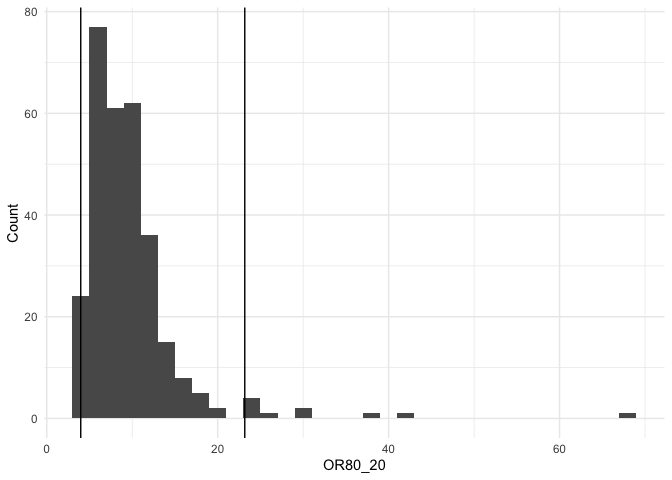
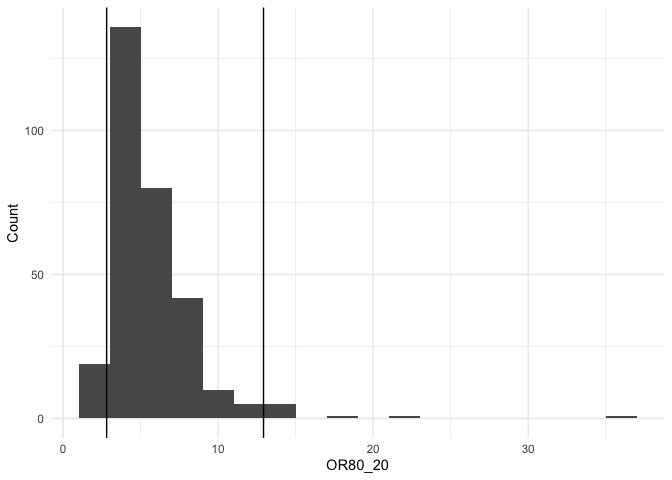
update sample data

diff --git a/README.md b/README.md
@@ -37,35 +37,24 @@ computer.
 
 ## Getting Started
 
-First, generate some test data.
+First, generate some test data. Here, we are using a simulated dataset
+that is included with the `hazrd` package.
 
 ``` r
 library(ggplot2)
 library(hazrd)
 set.seed(4649580)
 
-# n = 1000
-# status = rbinom(n, 1, 0.2)
-# 
-# test_data = data.frame(phs  = rnorm(n) + (1 * status),
-#                        status = status,
-#                        age = sample(40:100, n, replace = TRUE))
-
-n <- 1000
-age = runif(n, 40, 80) # generate random age at recruitment
-cens <- 15*runif(n)    # randomize years until censoring
-phs = rnorm(n)         # generate random PHS score
-h <- .02*exp(.04*(age-50)+0.8*(phs)) 
-                       # calculate risk with age and PHS score
-t <- -log(runif(n))/h  # calculate time of diagnosis
-status <- ifelse(t<=cens,1,0) 
-                       # if time of diagnosis is less than time of censoring
-                       # then "case", otherwise "control"
-t <- pmin(t, cens)     # choose the lesser of diagnosis time or censoring time
-age = age + t          # Add age of recruitment to age of diagnosis/censoring
-
-test_data = data.frame(phs, age, status)
+head(test_data)
 ```
+
+    ##          phs      age status
+    ## 1  1.2959195 61.20479      0
+    ## 2  0.7677172 52.15337      0
+    ## 3  1.8747000 56.05307      0
+    ## 4 -1.0106221 81.71140      0
+    ## 5 -0.7239738 61.37459      0
+    ## 6 -1.2076723 54.56741      0
 
 Next, plot the histogram of PHSes by case/control status.
 
@@ -85,13 +74,13 @@ print(HR80_20[1:3])
 ```
 
     ## $HR
-    ## [1] 7.313878
+    ## [1] 7.33684
     ## 
     ## $conf.low
-    ## [1] 5.21903
+    ## [1] 5.095274
     ## 
     ## $conf.high
-    ## [1] 10.48366
+    ## [1] 10.95351
 
 Each `get_` function also returns the output from each bootstrap
 iteration in `$iters` so that the user can plot these or calculate their
@@ -117,13 +106,13 @@ print(OR80_20[1:3])
 ```
 
     ## $OR
-    ## [1] 8.181727
+    ## [1] 4.864637
     ## 
     ## $conf.low
-    ## [1] 3.979154
+    ## [1] 2.809005
     ## 
     ## $conf.high
-    ## [1] 23.16976
+    ## [1] 12.92629
 
 ``` r
 ggplot(mapping = aes(x = OR80_20$iters)) +
@@ -145,13 +134,13 @@ print(c_index[1:3])
 ```
 
     ## $c_index
-    ## [1] 0.7088213
+    ## [1] 0.6709248
     ## 
     ## $conf.low
-    ## [1] 0.6784394
+    ## [1] 0.624443
     ## 
     ## $conf.high
-    ## [1] 0.7420726
+    ## [1] 0.7078686
 
 Finally, plot the Kaplan-Meier curves with confidence intervals for
 centiles of interest.
